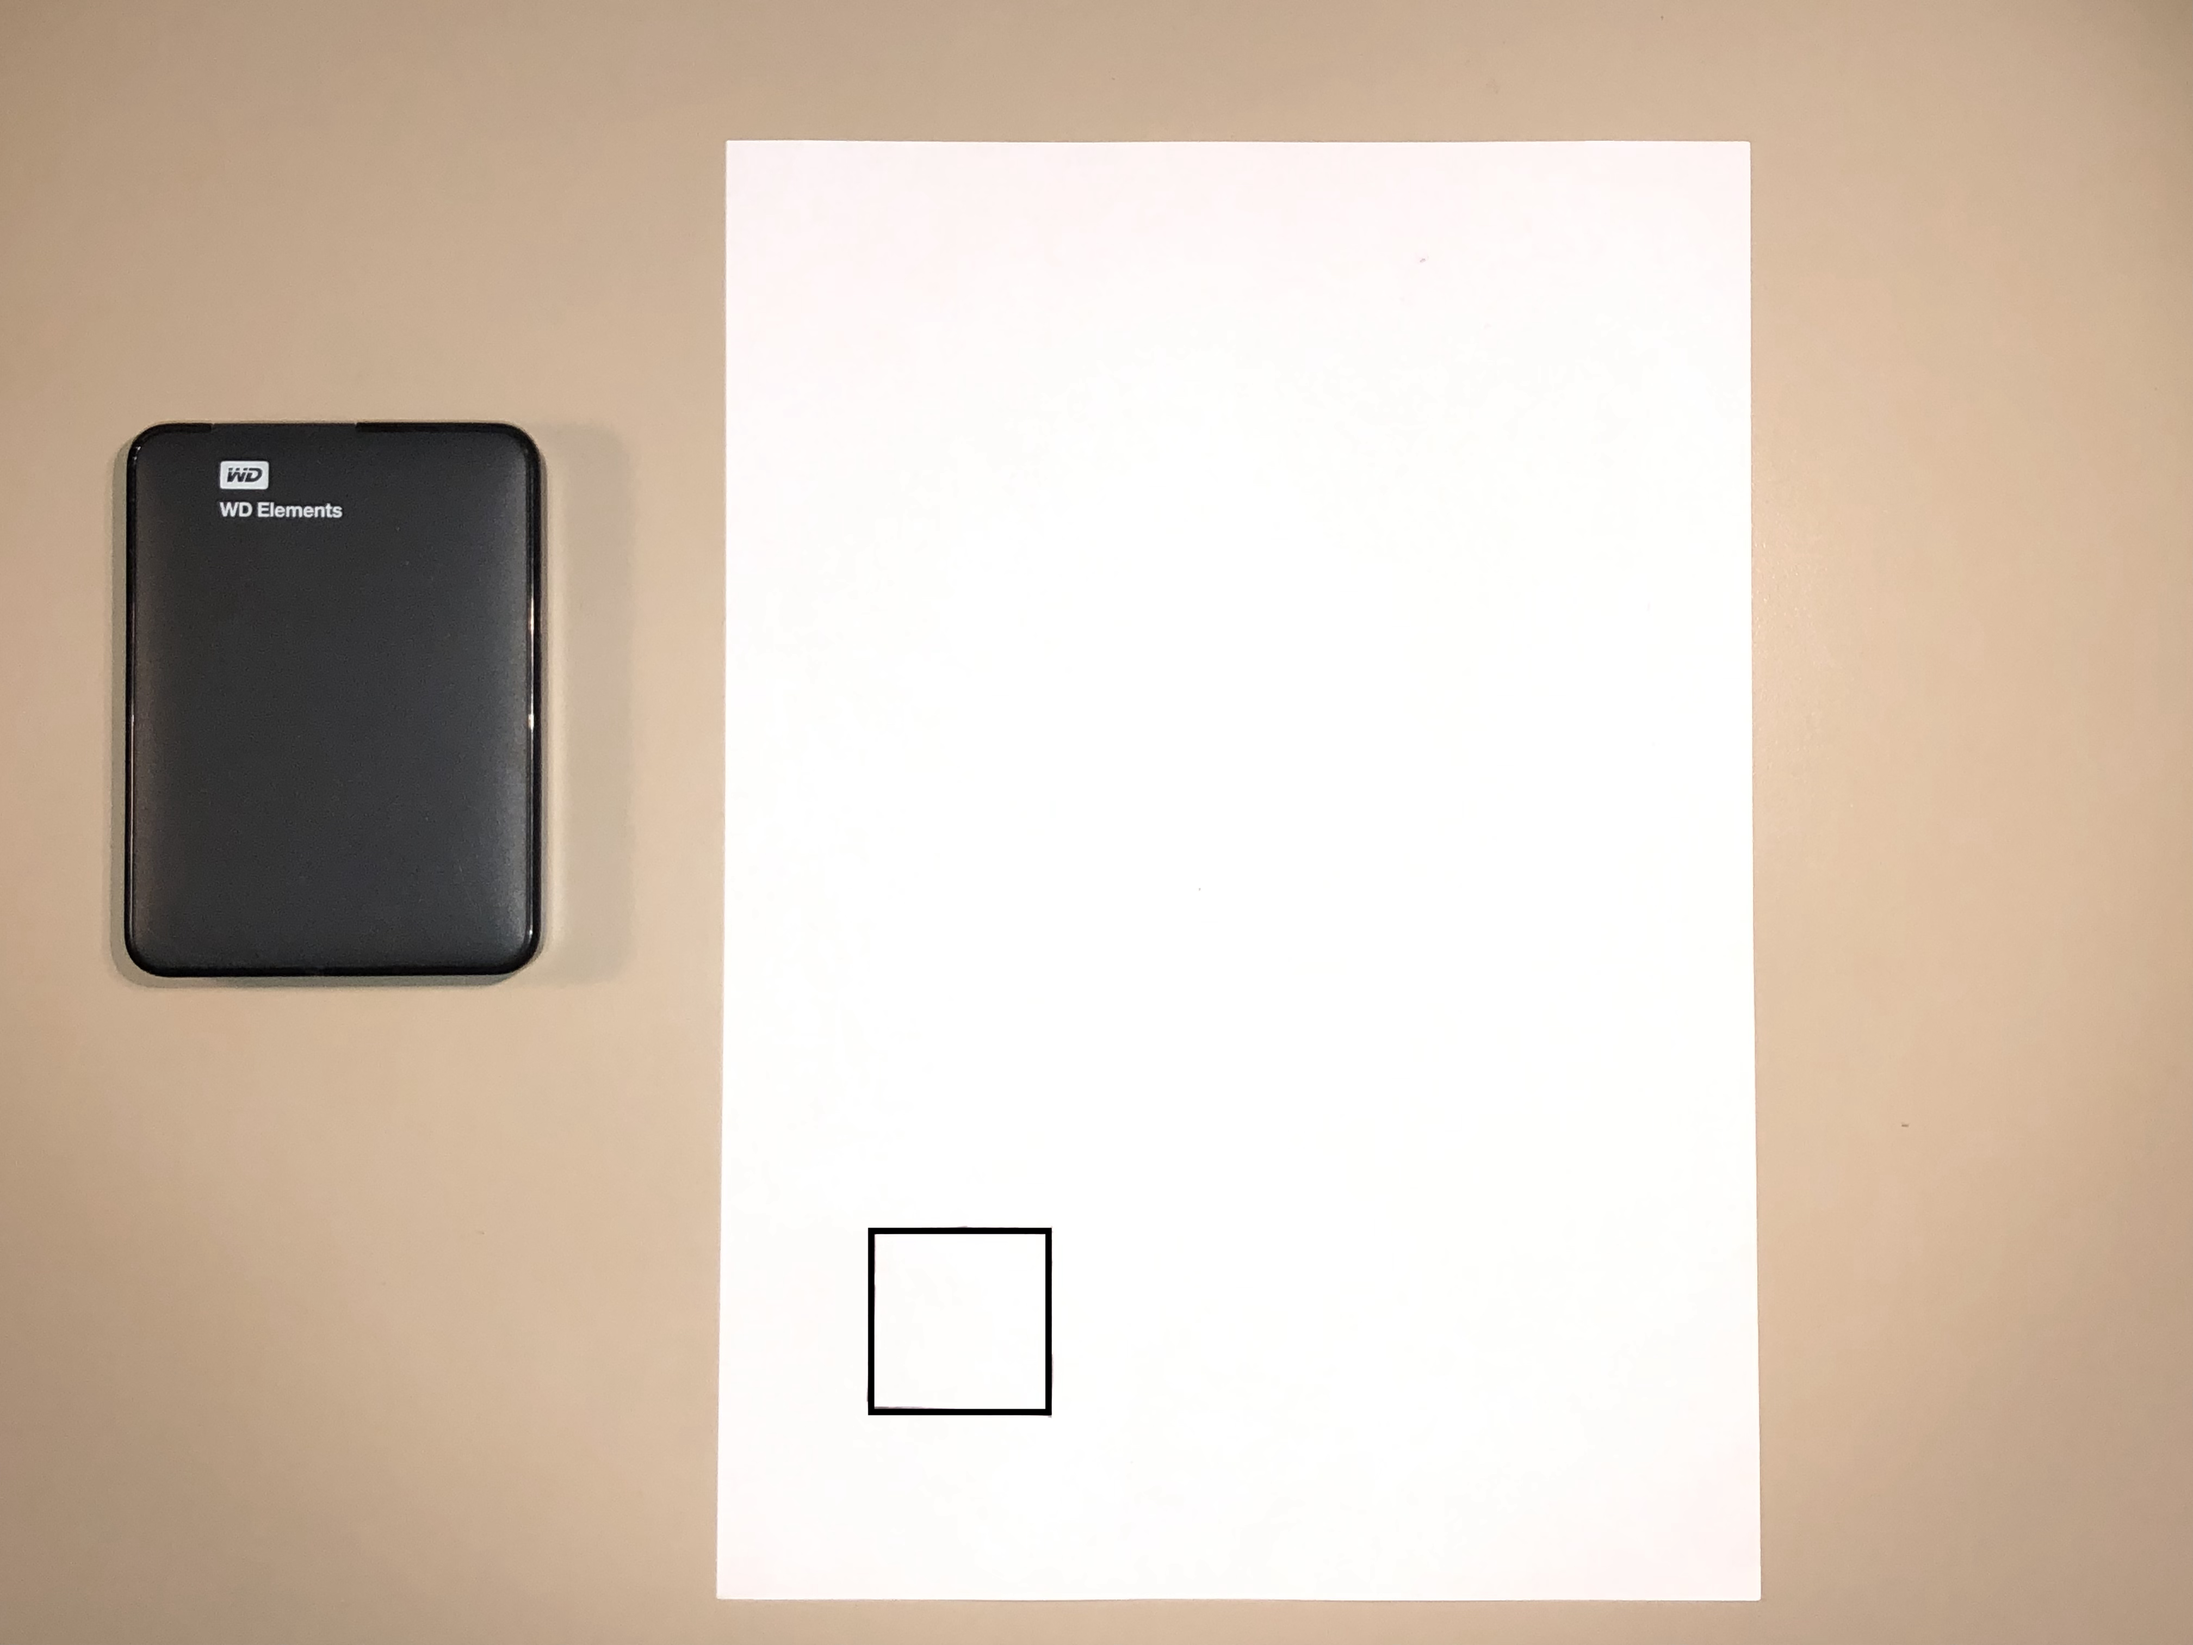
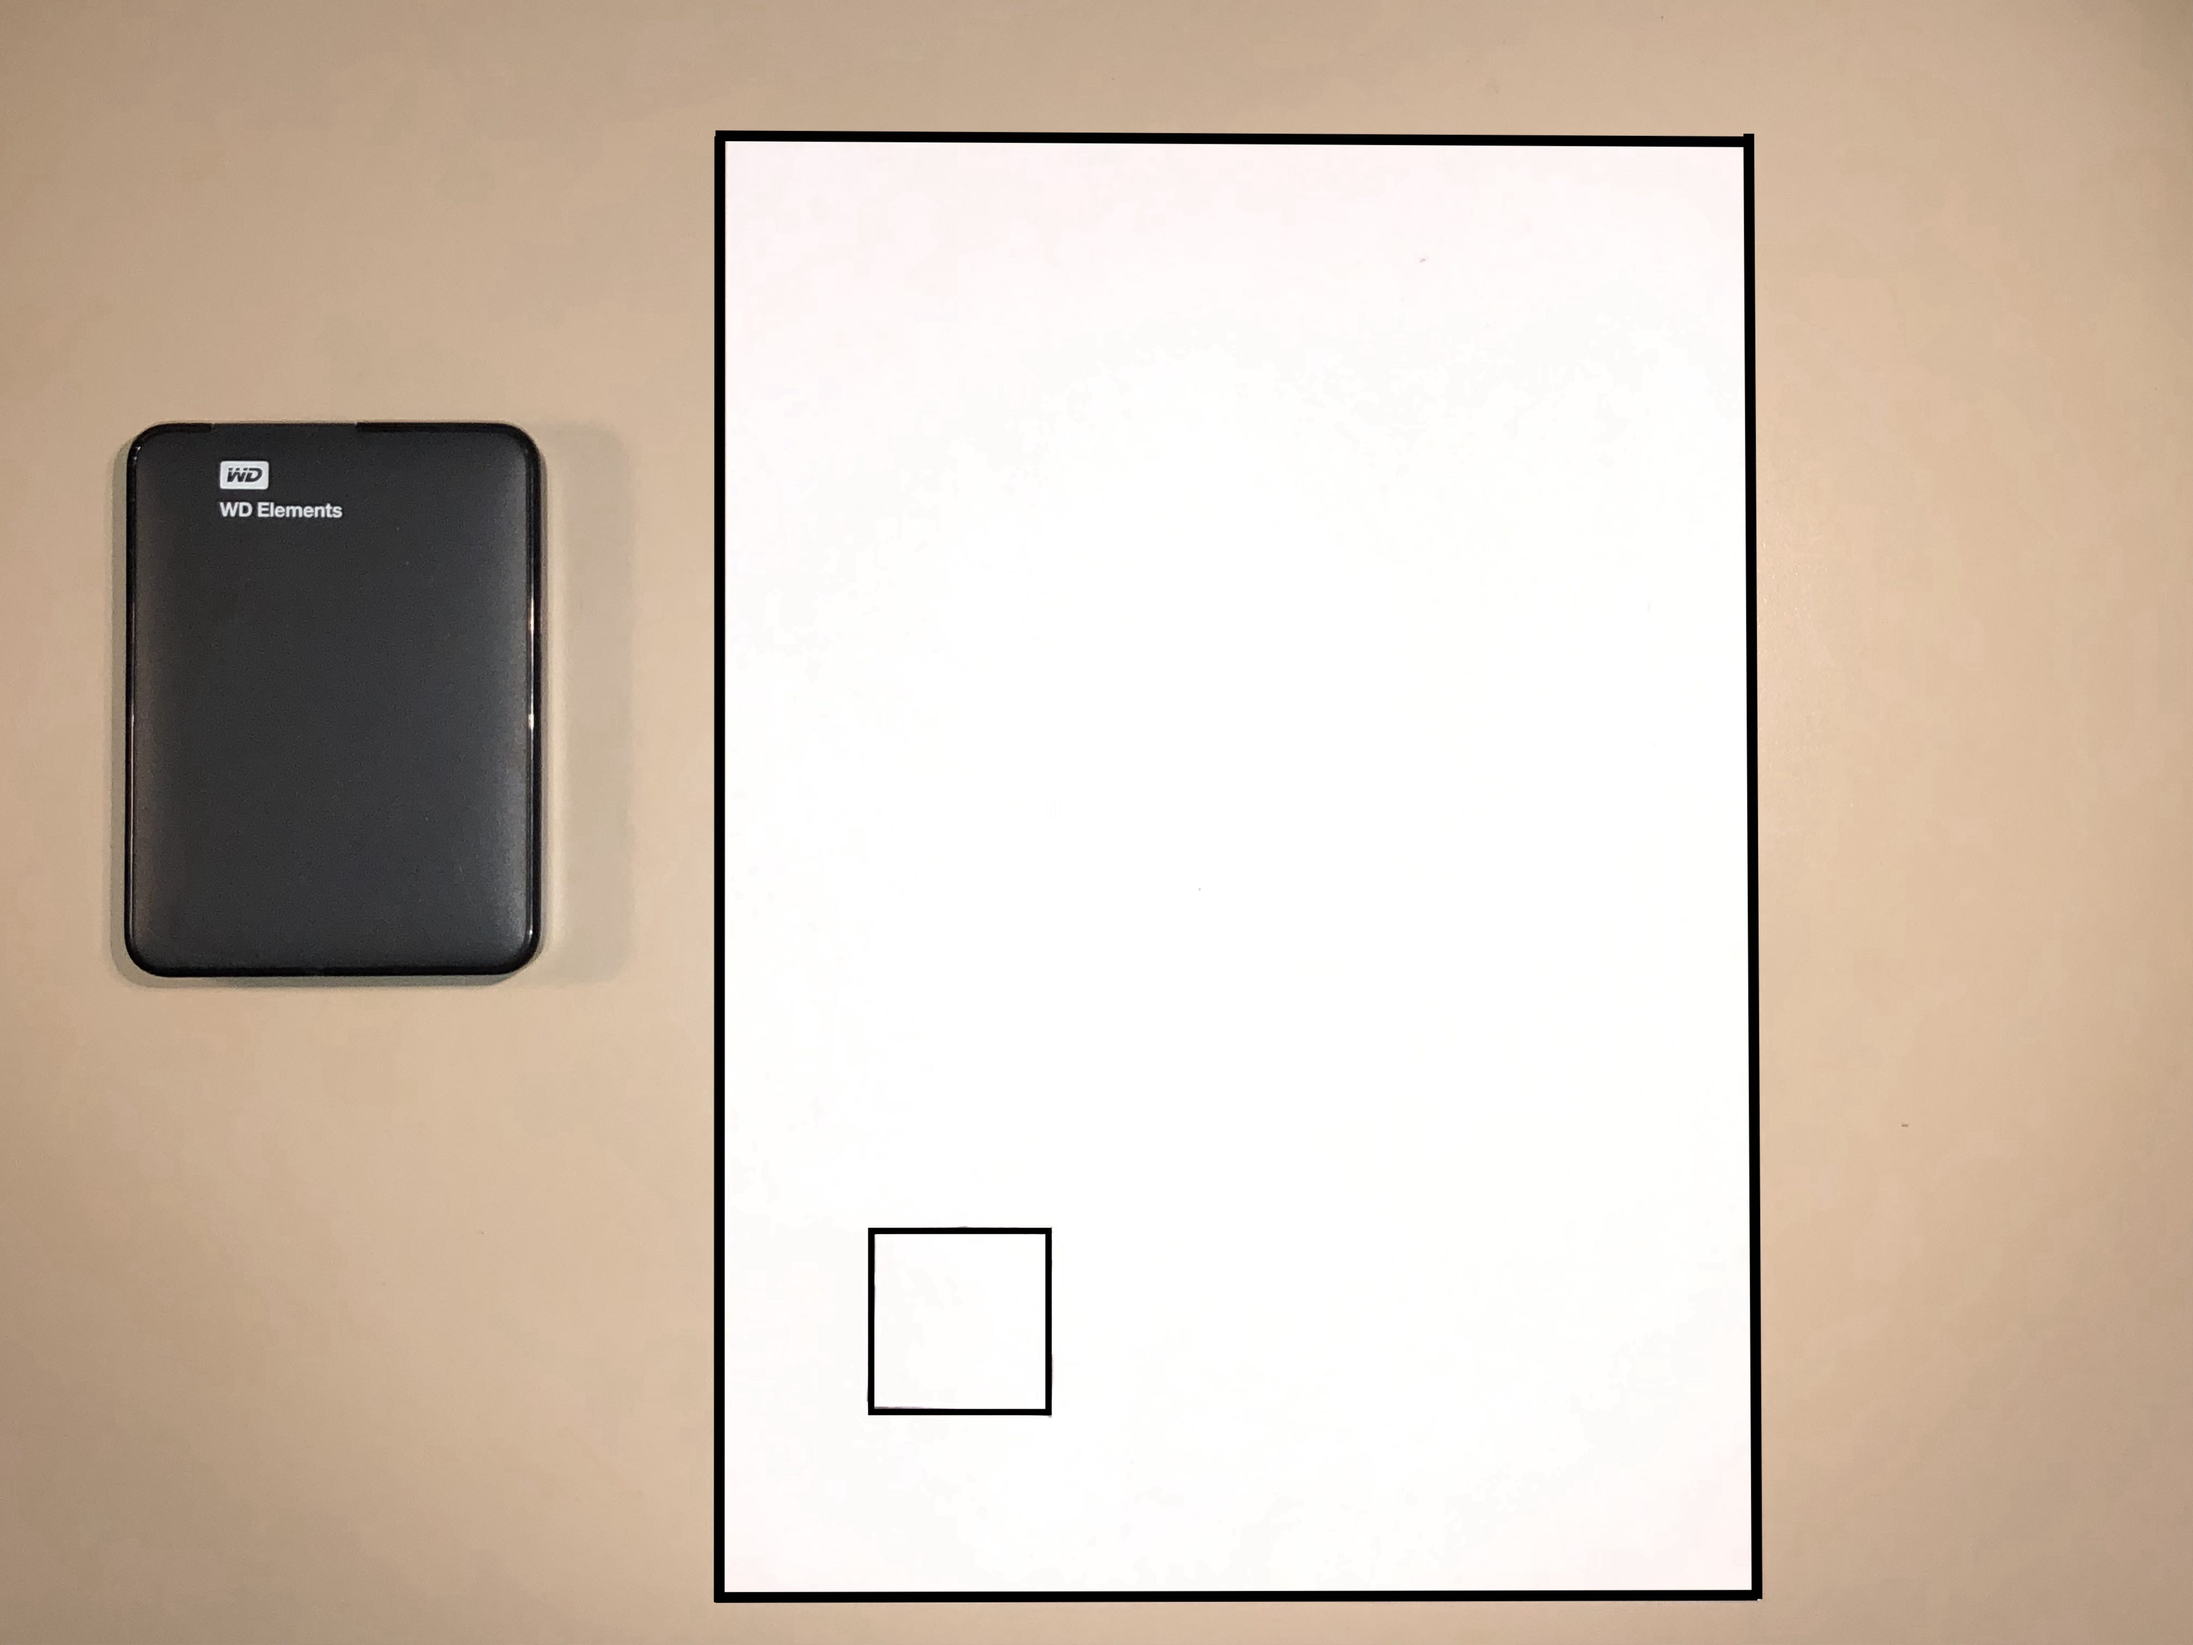
Trying to detect normally

Changed region(s): [[0.3125, 0.0622, 0.8125, 0.9947]]

diff --git a/preparation/detector.py b/preparation/detector.py
@@ -1,49 +1,26 @@
-import numpy as np
-import matplotlib.pyplot as plt
-from imageio import imread, imsave
-from skimage.color import rgb2gray, label2rgb
-from skimage.transform import hough_line, hough_line_peaks, warp, AffineTransform
-from skimage.feature import canny, corner_harris, corner_peaks, corner_fast, corner_subpix, match_descriptors, ORB
-from skimage.filters import roberts, sobel, scharr, prewitt
-from skimage.segmentation import watershed
-from skimage.morphology import binary_closing, binary_erosion
-from skimage.measure import ransac
-from skimage import util
-from scipy import ndimage as ndi
-import os
+def show_image(image):
+    cv2.imshow('image', image)
+    c = cv2.waitKey()
+    if c >= 0: return -1
+    return 0
 
-
-picture = util.invert(rgb2gray(imread(os.path.join("../", "tsk_2.jpg"))))
-
-
-# Эти параметры можно менять
-canny_sigma = 2.75
-canny_low_threshold = 0.2
-canny_high_threshold = 0.6
-binary_closing_footprint_width = 5
-binary_closing_footprint = np.ones((binary_closing_footprint_width, binary_closing_footprint_width))
 
 def correct_mask_borders_after_canny(canny_result, border_width=3):
-    # заполняем полосы толщиной border_width нулями
-    canny_result[:border_width,:] = 0
-    canny_result[:,:border_width] = 0
-    canny_result[-border_width:,:] = 0
-    canny_result[:,-border_width:] = 0
-
-my_edge_map = binary_closing(
-    canny(
-        picture,
-        sigma=canny_sigma,
-        low_threshold=canny_low_threshold,
-        high_threshold=canny_high_threshold,
-    ),
-    footprint=binary_closing_footprint
-)
-correct_mask_borders_after_canny(my_edge_map)
-my_edge_segmentation = ndi.binary_fill_holes(my_edge_map)
-
-plt.imshow(label2rgb(my_edge_segmentation, image=picture))
-result_image_file = os.path.join("../output", "res.png")
-plt.savefig(result_image_file, dpi=150)
+    canny_result[:border_width, :] = 0
+    canny_result[:, :border_width] = 0
+    canny_result[-border_width:, :] = 0
+    canny_result[:, -border_width:] = 0
 
 
+def findContours():
+    image = cv2.imread('../test_inputs/pic1.jpg')
+
+    img_gray = cv2.cvtColor(image, cv2.COLOR_BGR2GRAY)
+    img_gray = cv2.GaussianBlur(img_gray, (5, 5), 0)
+    canny = cv2.Canny(img_gray, 100, 200)
+    correct_mask_borders_after_canny(canny)
+
+    contours, hierarchy = cv2.findContours(canny, cv2.RETR_LIST, cv2.CHAIN_APPROX_TC89_L1)
+    img = cv2.drawContours(image, contours, -1, (255, 255, 0), 2)
+    show_image(img)
+    return contours

diff --git a/preparation/__init__.py b/preparation/__init__.py
@@ -1,23 +1,2 @@
 import cv2
 
-
-
-def show_image(image):
-    cv2.imshow('image',image)
-    c = cv2.waitKey()
-    if c >= 0 : return -1
-    return 0
-
-
-
-image = cv2.imread('../test_inputs/2_2.jpeg')
-
-image = cv2.fastNlMeansDenoisingColored(image)
-image = cv2.GaussianBlur(image, (9, 9), 0)
-
-img_gray = cv2.cvtColor(image, cv2.COLOR_BGR2GRAY)
-
-ret, im = cv2.threshold(img_gray, 150, 255, cv2.THRESH_BINARY_INV)
-contours, hierarchy  = cv2.findContours(im, cv2.RETR_EXTERNAL, cv2.CHAIN_APPROX_SIMPLE)
-img = cv2.drawContours(image, contours, -1, (0,255,75), 2)
-show_image(img)

diff --git a/README.md b/README.md
@@ -30,7 +30,7 @@
 ### К многоугольнику и листу бумаги
 - Лист бумаги с многоугольником может располагаться в любой части экрана с любым углом поворота
 - Пропорции листа не должны быть искажены
-- Границы листа должны быть четко определимы
+- Границы листа должны быть четко определимы (если цвет листа схож с цветом фона, то лист обводим по контуру (таким образом, чтобы эта граница четко выделялась))
 - Многоугольник должен быть выпуклым (это условие обусловлено моим текущим пониманием того, как буду решать задачу)
 - Границы многоугольника должны быть четко определимы
 ### К поверхности
